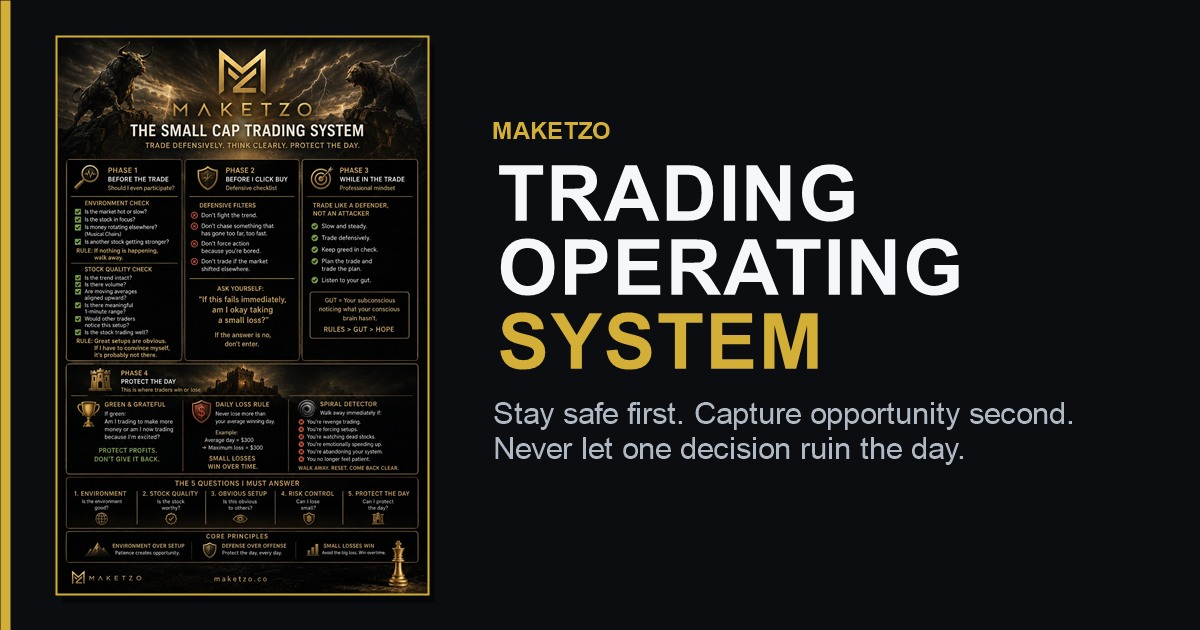
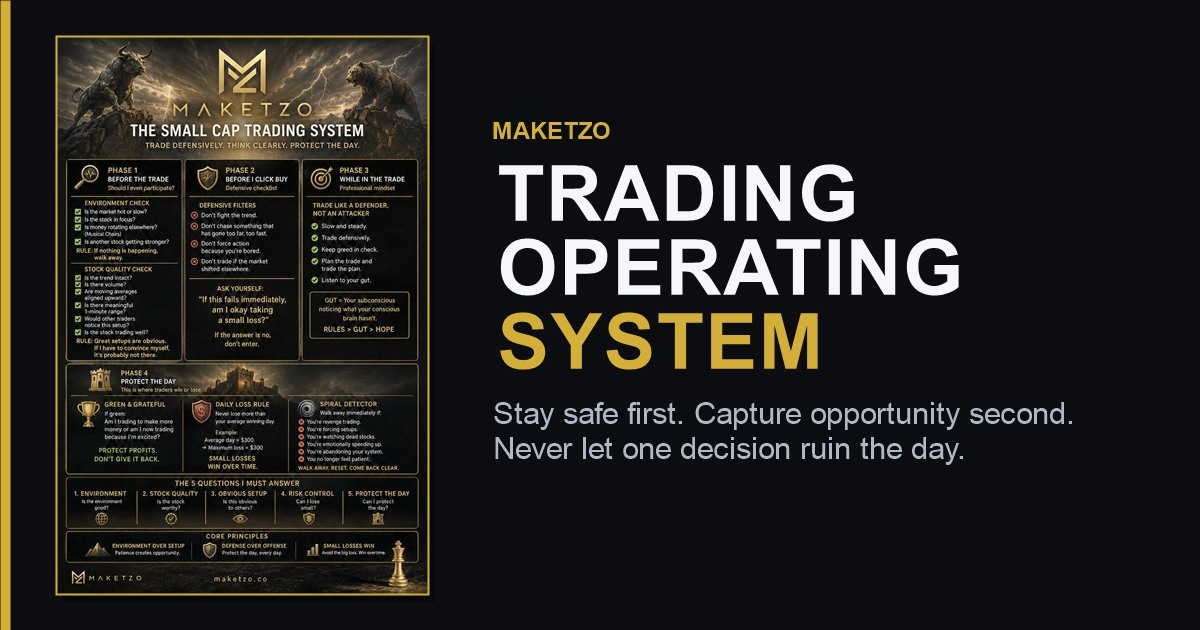
Trading OS page: brighter full-res graphic + refreshed OG card, cache bump v3

diff --git a/trading-os.html b/trading-os.html
@@ -11,13 +11,13 @@
 <meta property="og:description" content="The whole trading process on one page. Stay safe first. Capture opportunity second. Never let one decision ruin the day. Free to read and share.">
 <meta property="og:url" content="https://maketzo.co/trading-os">
 <meta property="og:type" content="website">
-<meta property="og:image" content="https://maketzo.co/assets/trading-os-og.jpg?v=2">
+<meta property="og:image" content="https://maketzo.co/assets/trading-os-og.jpg?v=3">
 <meta property="og:image:width" content="1200">
 <meta property="og:image:height" content="630">
 <meta name="twitter:card" content="summary_large_image">
 <meta name="twitter:title" content="The Trading Operating System &mdash; MAKETZO">
 <meta name="twitter:description" content="The whole trading process on one page. Stay safe first. Capture opportunity second. Never let one decision ruin the day. Free.">
-<meta name="twitter:image" content="https://maketzo.co/assets/trading-os-og.jpg?v=2">
+<meta name="twitter:image" content="https://maketzo.co/assets/trading-os-og.jpg?v=3">
 <link rel="canonical" href="https://maketzo.co/trading-os">
 <link rel="preconnect" href="https://fonts.googleapis.com">
 <link href="https://fonts.googleapis.com/css2?family=Bebas+Neue&family=DM+Sans:wght@300;400;500;600;700&family=DM+Mono:wght@400;500&display=swap" rel="stylesheet">
@@ -199,7 +199,7 @@ footer { background: var(--mk-obsidian-950); border-top: var(--mk-border-hairlin
 <!-- ─── THE GRAPHIC ──────────────────────────────────────────────── -->
 <section class="tos-graphic-wrap" id="tos-graphic">
   <button type="button" class="tos-graphic-btn reveal" data-tos-zoom aria-label="View the Trading Operating System full size">
-    <img class="tos-graphic-img" src="assets/trading-os.jpg?v=2" alt="The MAKETZO Trading Operating System, the full one-page trading system">
+    <img class="tos-graphic-img" src="assets/trading-os.jpg?v=3" alt="The MAKETZO Trading Operating System, the full one-page trading system">
     <span class="tos-zoom-hint">Tap to view full size</span>
   </button>
   <div class="tos-actions reveal">
@@ -218,7 +218,7 @@ footer { background: var(--mk-obsidian-950); border-top: var(--mk-border-hairlin
         <button class="mk-share__item mk-share__item--wide" type="button" data-platform="copy" role="menuitem"><svg class="mk-share__item-icon" viewBox="0 0 24 24" aria-hidden="true"><path d="M3.9 12c0-1.71 1.39-3.1 3.1-3.1h4V7H7c-2.76 0-5 2.24-5 5s2.24 5 5 5h4v-1.9H7c-1.71 0-3.1-1.39-3.1-3.1zM8 13h8v-2H8v2zm9-6h-4v1.9h4c1.71 0 3.1 1.39 3.1 3.1s-1.39 3.1-3.1 3.1h-4V17h4c2.76 0 5-2.24 5-5s-2.24-5-5-5z"/></svg><span>Copy link</span></button>
       </div>
     </div>
-    <a class="btn-secondary" href="assets/trading-os.jpg?v=2" download="MAKETZO-Trading-Operating-System.jpg" data-tos-dl>Download</a>
+    <a class="btn-secondary" href="assets/trading-os.jpg?v=3" download="MAKETZO-Trading-Operating-System.jpg" data-tos-dl>Download</a>
   </div>
   <div class="mk-share-toast" role="status" aria-live="polite" hidden>Link copied</div>
 </section>
@@ -298,12 +298,12 @@ footer { background: var(--mk-obsidian-950); border-top: var(--mk-border-hairlin
     <span class="tos-vtitle">Trading Operating System</span>
     <div class="tos-vactions">
       <button type="button" class="tos-vbtn" id="tosViewerZoom">Zoom in</button>
-      <a class="tos-vbtn" href="assets/trading-os.jpg?v=2" download="MAKETZO-Trading-Operating-System.jpg">Download</a>
+      <a class="tos-vbtn" href="assets/trading-os.jpg?v=3" download="MAKETZO-Trading-Operating-System.jpg">Download</a>
       <button type="button" class="tos-vbtn tos-vbtn--primary" id="tosViewerClose">Close</button>
     </div>
   </div>
   <div class="tos-vscroll" id="tosViewerScroll">
-    <img class="tos-vimg" id="tosViewerImg" src="assets/trading-os.jpg?v=2" alt="The MAKETZO Trading Operating System, full size">
+    <img class="tos-vimg" id="tosViewerImg" src="assets/trading-os.jpg?v=3" alt="The MAKETZO Trading Operating System, full size">
   </div>
 </div>
 
